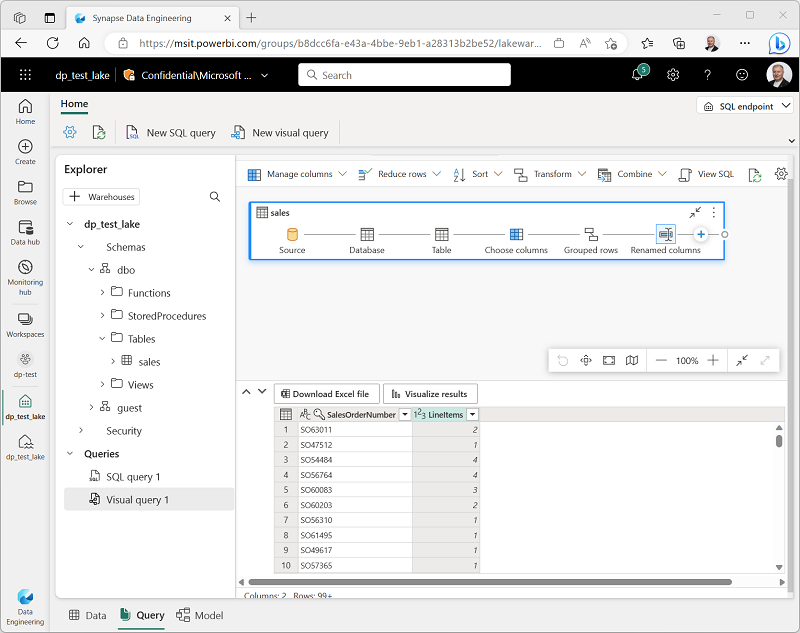
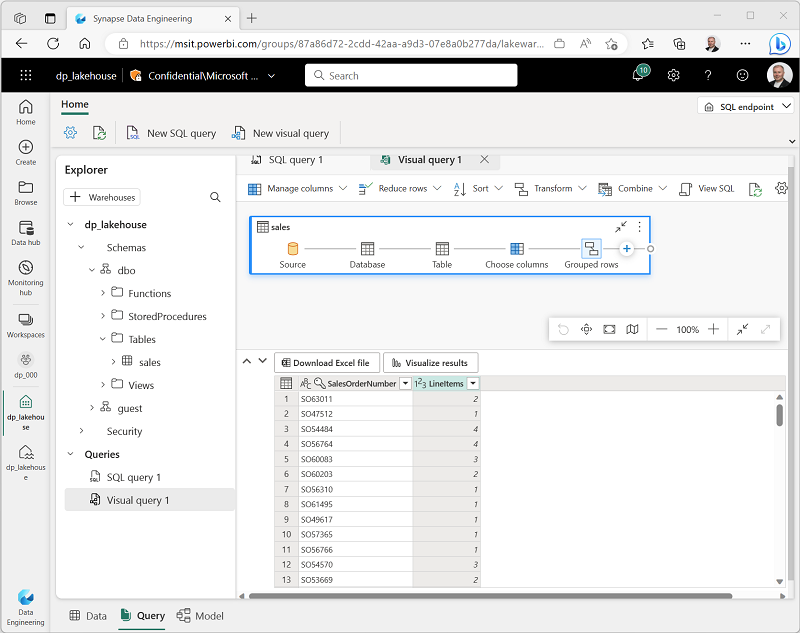
Updates

diff --git a/Instructions/Labs/01-lakehouse.md b/Instructions/Labs/01-lakehouse.md
@@ -139,11 +139,14 @@ While many data professionals are familiar with SQL, data analysts with Power BI
 
     ![Screenshot of a Choose columns dialog box.](./Images/choose-columns.png)
 
-4. in the **Transform** menu, select **Group by**. Then group the data by the **SalesOrderNumber** column, using **count distinct** function to aggregate the **SalesOrderLineNumber** column.
+4. in the **Transform** menu, select **Group by**. Then group the data by using the following **Basic** settings:
 
-    ![Screenshot of a Group by dialog box.](./Images/group-by.png)
+    - **Group by**: SalesOrderNumber
+    - **New column name**: LineItems
+    - **Operation**: Count distinct values
+    - **Column**: SalesOrderLineNumber
 
-5. Select the new **Count** column. Then right-click its column header and select **Rename** to change the column name to **LineItems**. The results pane under the visual query now shows the number of line items for each sales order.
+    When you're done, the results pane under the visual query shows the number of line items for each sales order.
 
     ![Screenshot of a Visual query with results.](./Images/visual-query-results.png)
 
@@ -157,20 +160,32 @@ The tables in your lakehouse are automatically added to a default dataset that d
 
     > **Note**: In this exercise, the data model consists of a single table. In a real-world scenario, you would likely create multiple tables in your lakehouse, each of which would be included in the model. You could then define relationships between these tables in the model.
 
-2. In the menu ribbon, select the **Reporting** tab. Then select **New report**. If you are prompted to use all available data, select **Continue**.
+2. In the menu ribbon, select the **Reporting** tab. Then select **New report**. A new browser tab opens in which you can design your report.
 
----
-*This fails with a 404 path not found error in the MSIT build*
+    ![Screenshot of the report designer.](./Images/report-designer.png)
 
-*Complete this section when the product is more stable*
+3. In the **Data** pane on the right, expand the **sales** table. Then select the following fields:
+    - **Item**
+    - **Quantity**
 
----
+    A table visualization is added to the report:
 
+    ![Screenshot of a report containing a table.](./Images/table-visualization.png)
 
+4. Hide the **Data** and **Filters** panes to create more space. Then ensure the table visualization is selected and in the **Visualizations** pane, change the visualization to a **Clustered bar chart** and resize it as shown here.
+
+    ![Screenshot of a report containing a clustered bar chart.](./Images/clustered-bar-chart.png)
+
+5. On the **File** menu, select **Save**. Then save the report as **Item Sales Report** in the workspace you created previously.
+6. Close the browser tab containing the report to return to the SQL endpoint for your lakehouse. Then, in the hub menu bar on the left, select your worspace to verify that it contains the following items:
+    - Your lakehouse.
+    - The SQL endpoint for your lakehouse.
+    - A default dataset for the tables in your lakehouse.
+    - The **Item Sales Report** report.
 
 ## Clean up resources
 
-In this exercise, you have created a lakehouse and imported data into it. You've seen how a lakehouse consists of files and tables stored in a OneLake data store. The managed tables can be queried using SQL, and are included in a dataset to support data visualizations.
+In this exercise, you have created a lakehouse and imported data into it. You've seen how a lakehouse consists of files and tables stored in a OneLake data store. The managed tables can be queried using SQL, and are included in a default dataset to support data visualizations.
 
 If you've finished exploring your lakehouse, you can delete the workspace you created for this exercise.
 
